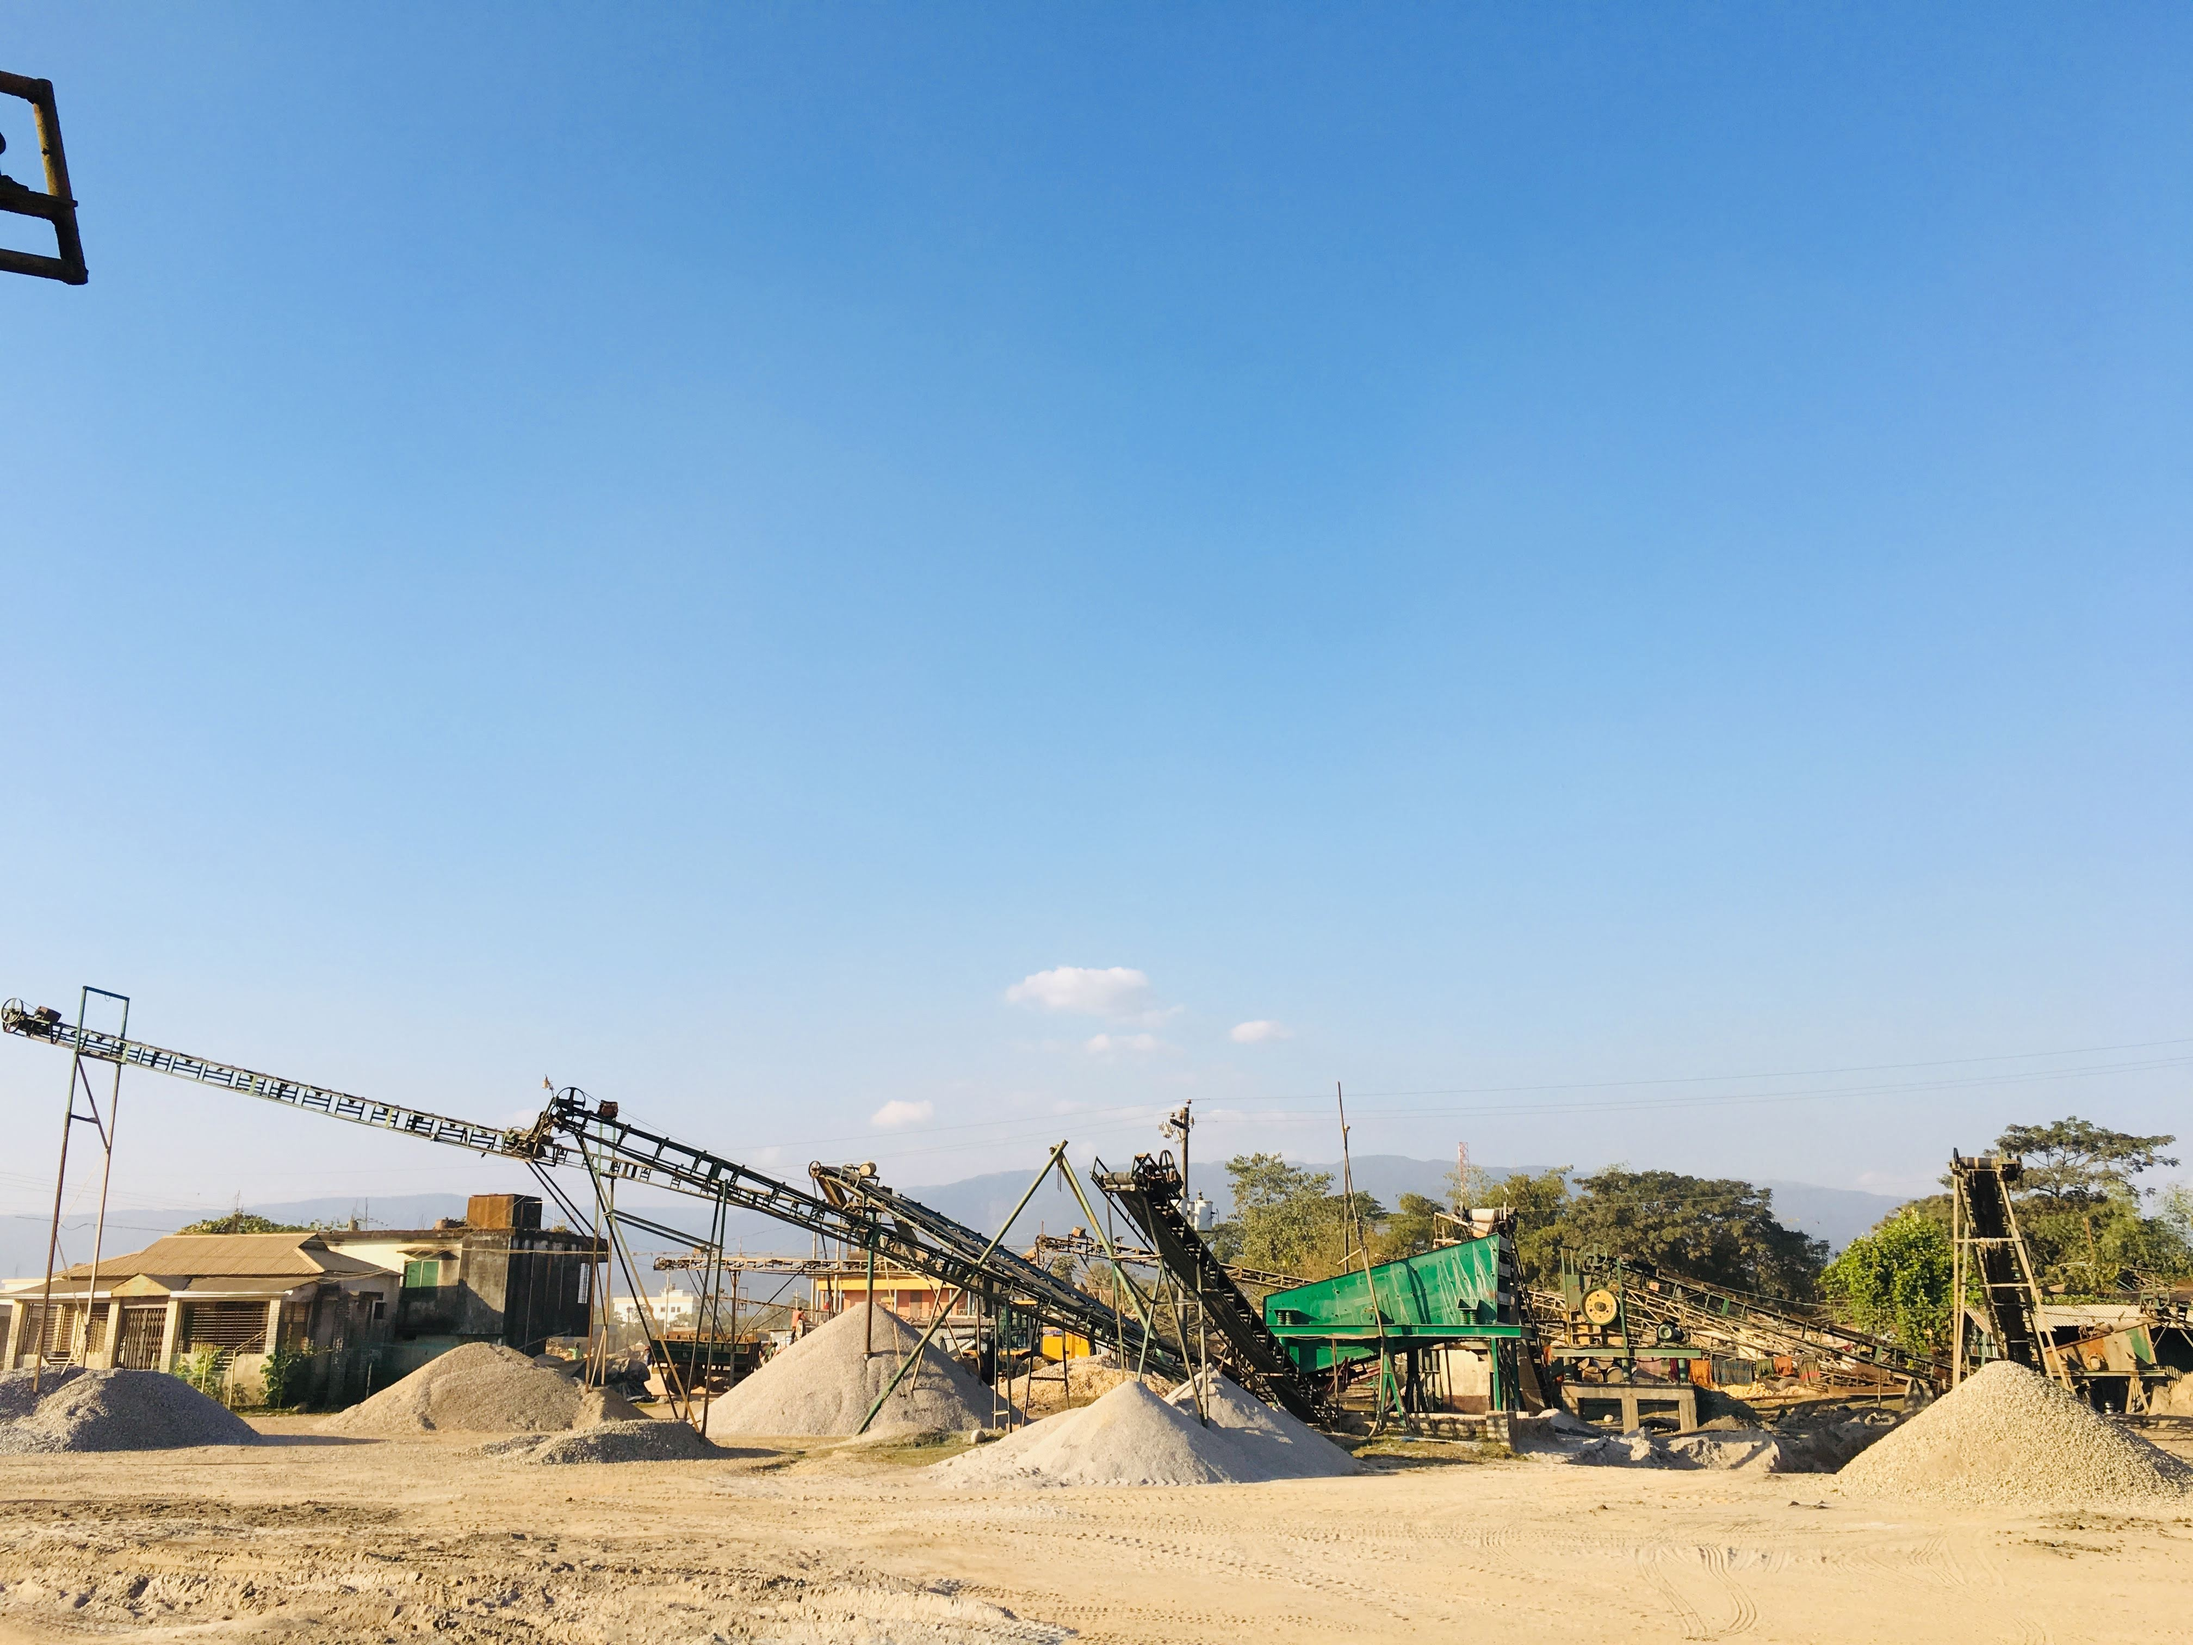
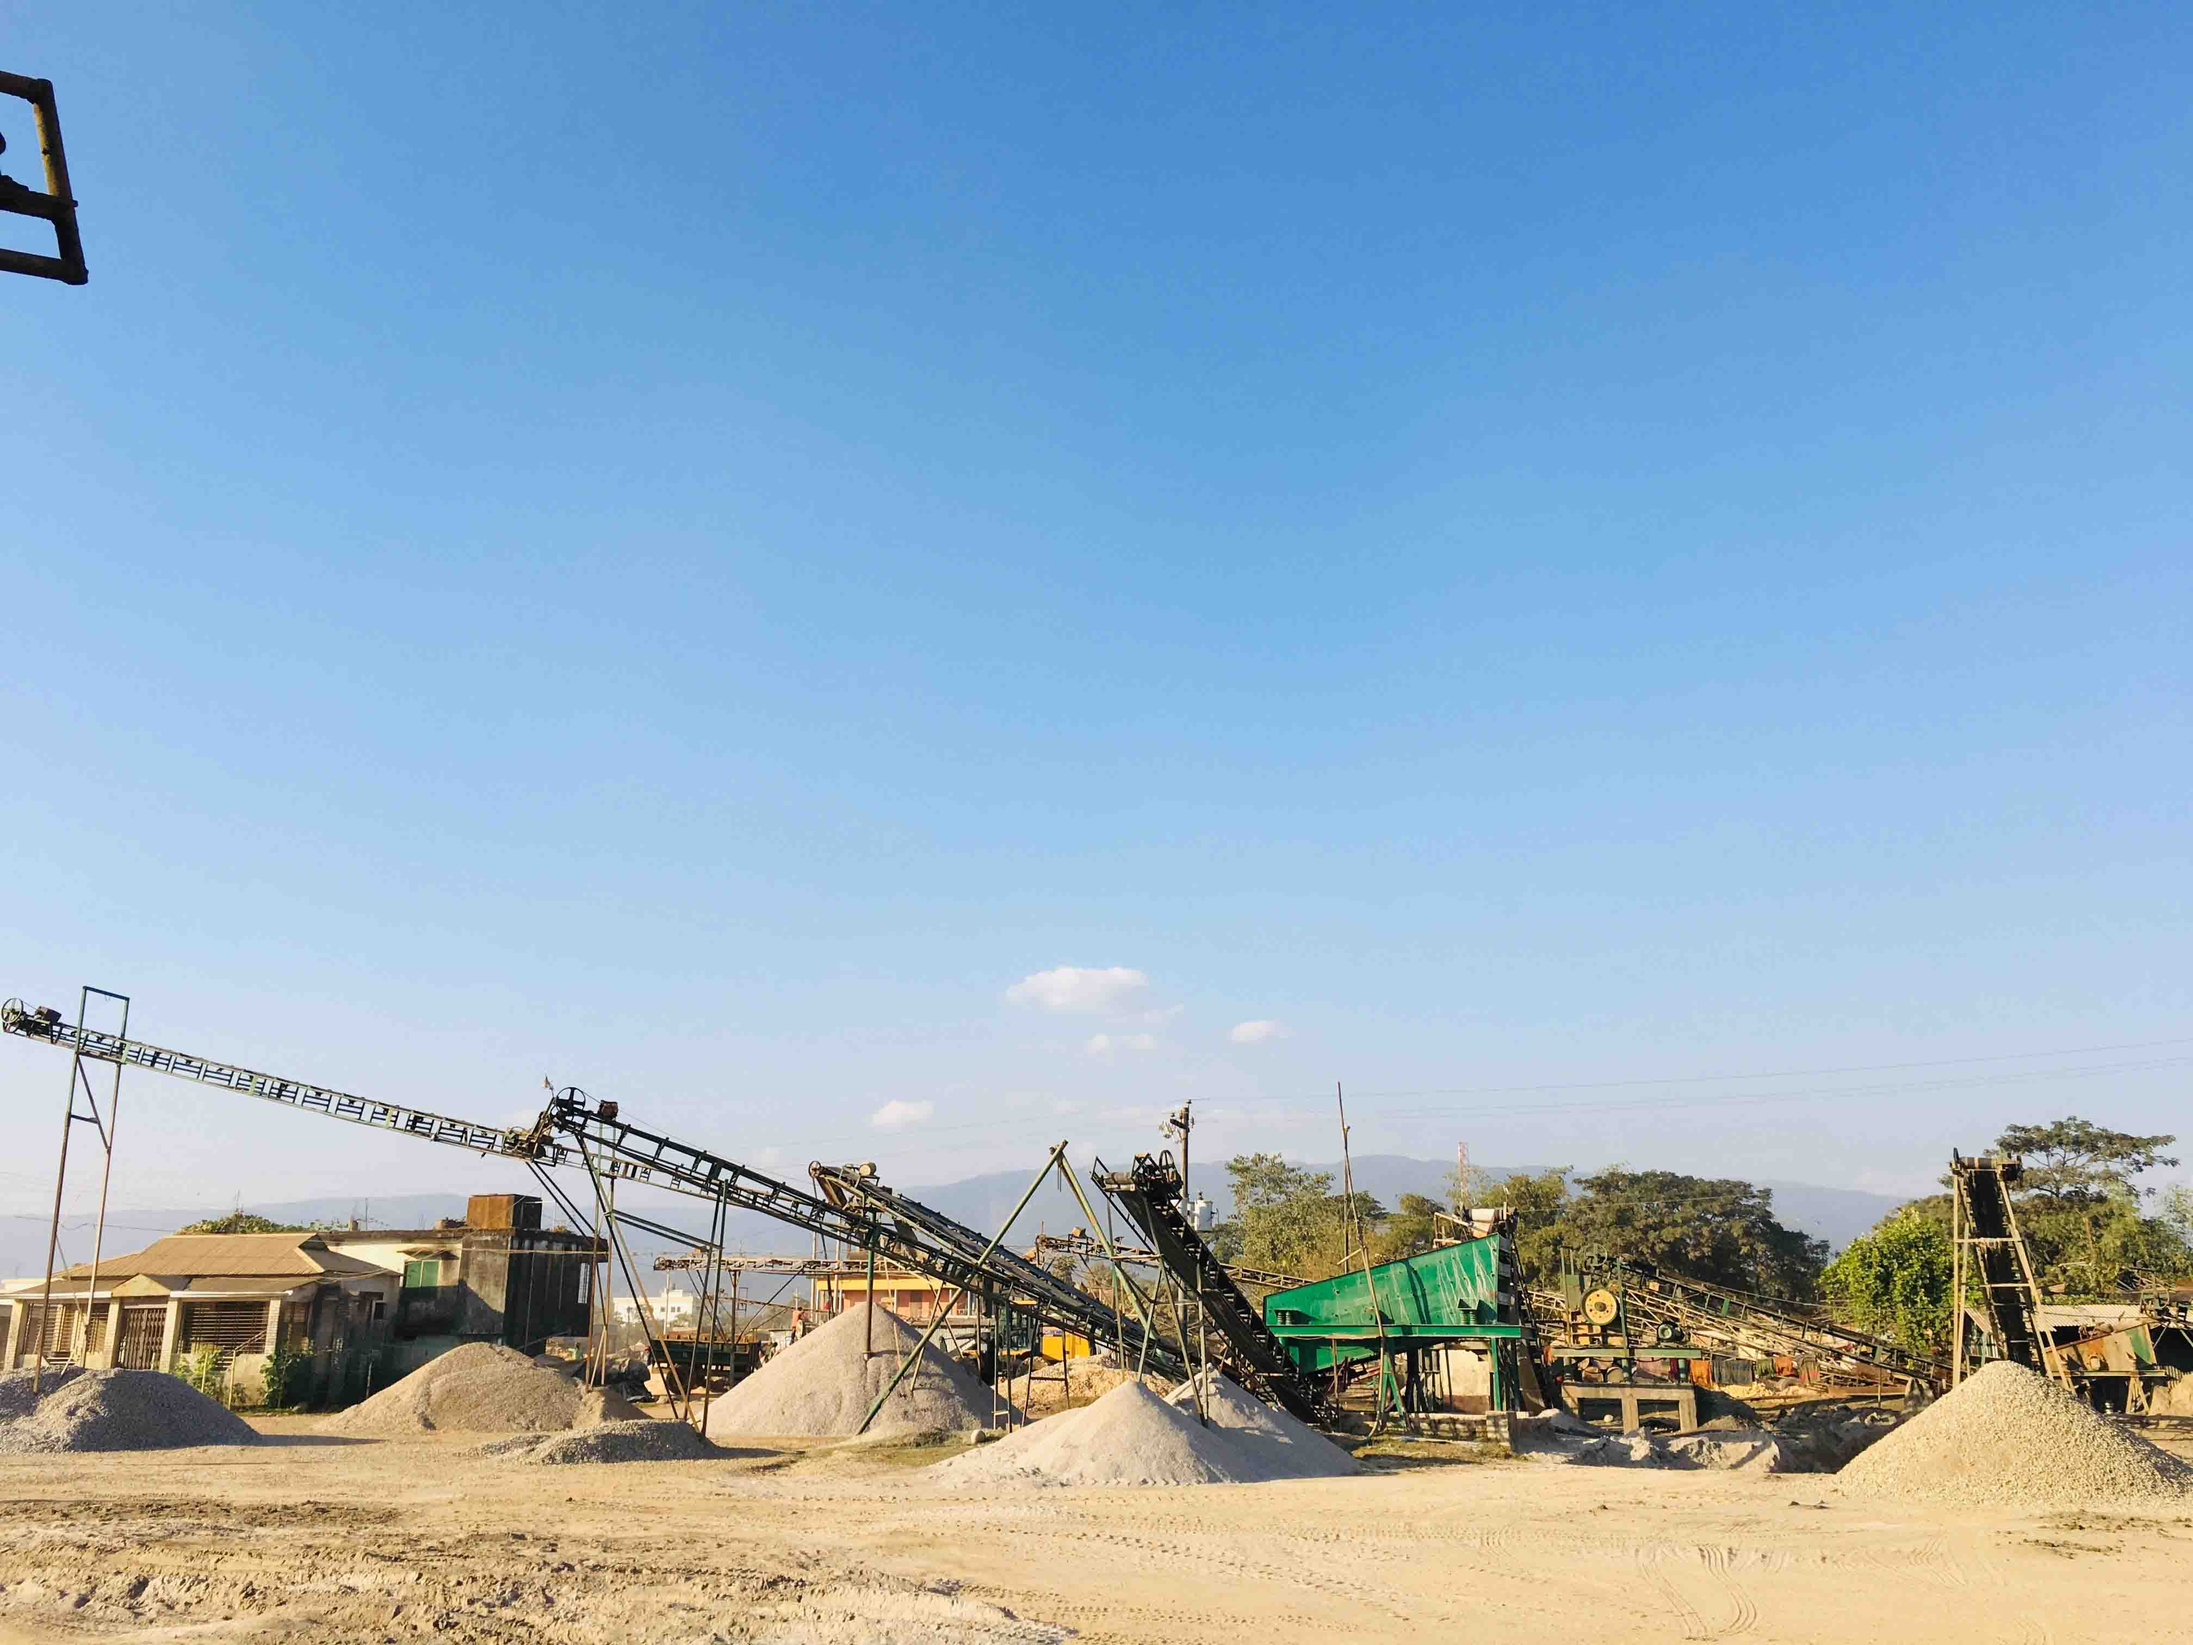
update

diff --git a/index.html b/index.html
@@ -76,7 +76,7 @@
       <div class="swiper-slide"><img class="img" src="photos/slides/2.jpg"></div>
       <div class="swiper-slide"><img class="img" src="photos/slides/3.jpg"></div>
       <div class="swiper-slide"><img class="img" src="photos/slides/4.JPG"></div>
-      <div class="swiper-slide"><img class="img" src="photos/slides/5.png"></div>
+      <div class="swiper-slide"><img class="img" src="photos/slides/5.jpg"></div>
       <div class="swiper-slide"><img class="img" src="photos/slides/6.jpg"></div>
       <div class="swiper-slide"><img class="img" src="photos/slides/7.jpg"></div>
       <div class="swiper-slide"><img class="img" src="photos/slides/8.JPG"></div>
